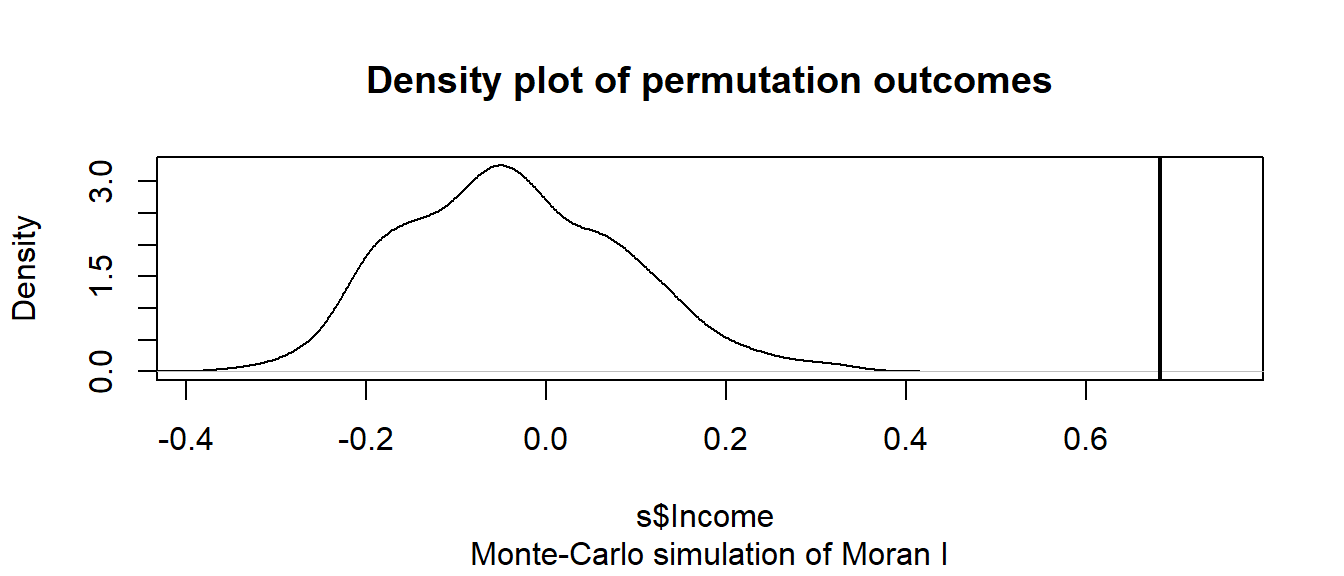
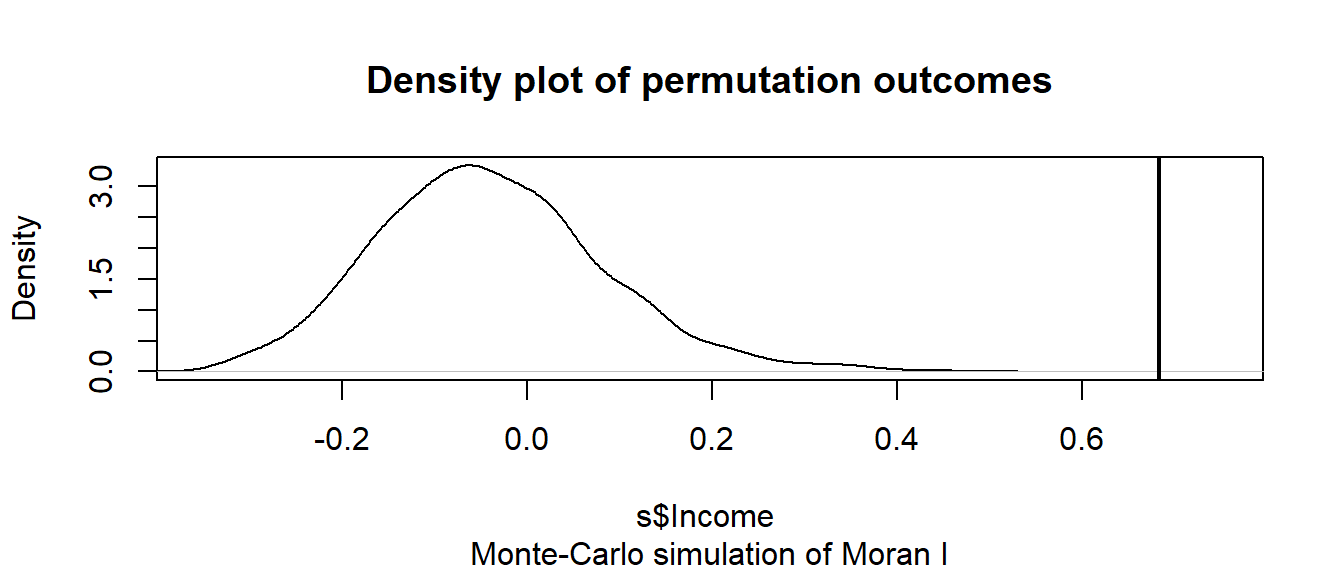
added zero policy parameter

diff --git a/docs/moranI/Mapping_and_Morans.html b/docs/moranI/Mapping_and_Morans.html
@@ -211,7 +211,7 @@ pre > code.sourceCode > span > a:first-child::before { text-decoration: underlin
 <hr>
 <p>We will make use of the following packages: <code>sf</code> for importing the shapefiles, <code>tmap</code> for creating choropleth maps and <code>spdep</code> for implementing the Moran’s I analysis. Note that you will probably need to install <code>spdep</code> since this package has not been used thus far in class.</p>
 <p>The functions in <code>spdep</code> use spatial formats that differ from those used with <code>spatstat</code>. As such, we will no longer need to rely on calls to <code>as.owin(s)</code> and <code>as.ppp(s)</code> as was the case with the <code>spatstat</code> functions.</p>
-<div class="cell" data-hash="Mapping_and_Morans_cache/html/unnamed-chunk-1_37585d4746d1afb7872c804a166c8c0d">
+<div class="cell" data-hash="Mapping_and_Morans_cache/html/unnamed-chunk-1_b2218aec5051ea25298dd6d3e7f3544e">
 <div class="sourceCode cell-code" id="cb1"><pre class="sourceCode r code-with-copy"><code class="sourceCode r"><span id="cb1-1"><a href="#cb1-1" aria-hidden="true" tabindex="-1"></a><span class="fu">library</span>(sf)</span>
 <span id="cb1-2"><a href="#cb1-2" aria-hidden="true" tabindex="-1"></a><span class="fu">library</span>(spdep)</span>
 <span id="cb1-3"><a href="#cb1-3" aria-hidden="true" tabindex="-1"></a><span class="fu">library</span>(RColorBrewer)</span></code><button title="Copy to Clipboard" class="code-copy-button"><i class="bi"></i></button></pre></div>
@@ -219,12 +219,12 @@ pre > code.sourceCode > span > a:first-child::before { text-decoration: underlin
 <section id="loading-the-data" class="level2">
 <h2 class="anchored" data-anchor-id="loading-the-data">Loading the data</h2>
 <p>Don’t forget to set the session’s working directory to the folder that contains the <code>NHME.shp</code> shapefile before running the following chunks of code.</p>
-<div class="cell" data-hash="Mapping_and_Morans_cache/html/unnamed-chunk-2_23e5027049d6c58ce0a4a7738b04c1b1">
+<div class="cell" data-hash="Mapping_and_Morans_cache/html/unnamed-chunk-2_b186acad8770b43477c219e3ba3b9e26">
 <div class="sourceCode cell-code" id="cb2"><pre class="sourceCode r code-with-copy"><code class="sourceCode r"><span id="cb2-1"><a href="#cb2-1" aria-hidden="true" tabindex="-1"></a>s <span class="ot">&lt;-</span> <span class="fu">st_read</span>(<span class="st">"NHME.shp"</span>)</span></code><button title="Copy to Clipboard" class="code-copy-button"><i class="bi"></i></button></pre></div>
 </div>
 <p>Note that unlike the earlier point pattern analysis exercises, we will need to <em>keep</em> the attribute information with our spatial objects.</p>
 <p>To list the column names associated with the object’s attribute table, type:</p>
-<div class="cell" data-hash="Mapping_and_Morans_cache/html/unnamed-chunk-3_0d822bff5e48d9ad68589492dd592d4c">
+<div class="cell" data-hash="Mapping_and_Morans_cache/html/unnamed-chunk-3_7c83929476e5452258beffced071deeb">
 <div class="sourceCode cell-code" id="cb3"><pre class="sourceCode r code-with-copy"><code class="sourceCode r"><span id="cb3-1"><a href="#cb3-1" aria-hidden="true" tabindex="-1"></a><span class="fu">names</span>(s)</span></code><button title="Copy to Clipboard" class="code-copy-button"><i class="bi"></i></button></pre></div>
 <div class="cell-output cell-output-stdout">
 <pre><code>[1] "NAME"       "STATE_NAME" "POP10_SQMI" "AVE_HH_SZ"  "AVE_FAM_SZ"
@@ -232,7 +232,7 @@ pre > code.sourceCode > span > a:first-child::before { text-decoration: underlin
 </div>
 </div>
 <p>To list the contents of an attribute, affix the dollar sign <code>$</code> to the object name followed by the attribute name. For example, to list the income values, type:</p>
-<div class="cell" data-hash="Mapping_and_Morans_cache/html/unnamed-chunk-4_03edfb803c9743b3aac4f8aa944a834f">
+<div class="cell" data-hash="Mapping_and_Morans_cache/html/unnamed-chunk-4_dcd27b7ec32474615a0dae64eac33eb0">
 <div class="sourceCode cell-code" id="cb5"><pre class="sourceCode r code-with-copy"><code class="sourceCode r"><span id="cb5-1"><a href="#cb5-1" aria-hidden="true" tabindex="-1"></a>s<span class="sc">$</span>Income</span></code><button title="Copy to Clipboard" class="code-copy-button"><i class="bi"></i></button></pre></div>
 <div class="cell-output cell-output-stdout">
 <pre><code> [1] 45765 59560 46559 50515 50027 40695 55046 43484 56701 60782 52393 56139
@@ -241,21 +241,21 @@ pre > code.sourceCode > span > a:first-child::before { text-decoration: underlin
 </div>
 </div>
 <p>You can plot the attribute values as follows:</p>
-<div class="cell" data-hash="Mapping_and_Morans_cache/html/unnamed-chunk-5_a5c90d75f982d6b1b561b4f561dedcc0">
+<div class="cell" data-hash="Mapping_and_Morans_cache/html/unnamed-chunk-5_a8bbfc8108149d79d7723b01ab66df58">
 <div class="sourceCode cell-code" id="cb7"><pre class="sourceCode r code-with-copy"><code class="sourceCode r"><span id="cb7-1"><a href="#cb7-1" aria-hidden="true" tabindex="-1"></a><span class="fu">hist</span>(s<span class="sc">$</span>Income, <span class="at">main=</span><span class="cn">NULL</span>)</span></code><button title="Copy to Clipboard" class="code-copy-button"><i class="bi"></i></button></pre></div>
 <div class="cell-output-display">
 <p><img src="Mapping_and_Morans_files/figure-html/unnamed-chunk-5-1.png" class="img-fluid" width="288"></p>
 </div>
 </div>
 <p>or,</p>
-<div class="cell" data-hash="Mapping_and_Morans_cache/html/unnamed-chunk-6_e251598c7615ee9bffa2c6f10ffd5e1e">
+<div class="cell" data-hash="Mapping_and_Morans_cache/html/unnamed-chunk-6_cae8248e586dca619e392460adf9cc86">
 <div class="sourceCode cell-code" id="cb8"><pre class="sourceCode r code-with-copy"><code class="sourceCode r"><span id="cb8-1"><a href="#cb8-1" aria-hidden="true" tabindex="-1"></a><span class="fu">boxplot</span>(s<span class="sc">$</span>Income, <span class="at">horizontal =</span> <span class="cn">TRUE</span>)</span></code><button title="Copy to Clipboard" class="code-copy-button"><i class="bi"></i></button></pre></div>
 <div class="cell-output-display">
 <p><img src="Mapping_and_Morans_files/figure-html/unnamed-chunk-6-1.png" class="img-fluid" width="288"></p>
 </div>
 </div>
 <p>To generate a map by symbolizing the polygons using the <code>Income</code> attribute we will define the classification breaks (<code>breaks = quantile</code> with <code>n = 8</code> breaks) and the symbol colors (<code>palette="Greens"</code>). For the latter, the <code>tmap</code> package makes use of Cynthia Brewer’s color schemes (you are already familiar with her <a href="http://colorbrewer2.org/">website</a>).</p>
-<div class="cell" data-hash="Mapping_and_Morans_cache/html/unnamed-chunk-7_a37e27f2432a6f978489c07deef320cf">
+<div class="cell" data-hash="Mapping_and_Morans_cache/html/unnamed-chunk-7_e707c9c3977d081f1d1c10547761f516">
 <div class="sourceCode cell-code" id="cb9"><pre class="sourceCode r code-with-copy"><code class="sourceCode r"><span id="cb9-1"><a href="#cb9-1" aria-hidden="true" tabindex="-1"></a>color <span class="ot">&lt;-</span> <span class="fu">brewer.pal</span>(<span class="dv">8</span>, <span class="st">"Greens"</span>)</span>
 <span id="cb9-2"><a href="#cb9-2" aria-hidden="true" tabindex="-1"></a><span class="fu">plot</span>(s[<span class="st">"Income"</span>], <span class="at">key.pos =</span> <span class="dv">4</span>, <span class="at">nbreaks =</span> <span class="dv">8</span>, <span class="at">breaks =</span> <span class="st">"quantile"</span>, <span class="at">pal =</span> color)</span></code><button title="Copy to Clipboard" class="code-copy-button"><i class="bi"></i></button></pre></div>
 <div class="cell-output-display">
@@ -264,7 +264,7 @@ pre > code.sourceCode > span > a:first-child::before { text-decoration: underlin
 </div>
 <p>You can change the classification schemes by setting the <code>breaks</code> parameter to styles such as <code>"equal"</code>, <code>"jenks"</code> (ArcGIS’ default), <code>"sd"</code>, <code>"pretty"</code> to name a few.</p>
 <p>You can change the Brewer color palette to any one of the following sequential color schemes:</p>
-<div class="cell" data-hash="Mapping_and_Morans_cache/html/unnamed-chunk-8_bbd7efa379f1593d7b917fd9459c7bb8">
+<div class="cell" data-hash="Mapping_and_Morans_cache/html/unnamed-chunk-8_a95626b01ae3fb3fbd7cdd1d93c18f98">
 <div class="sourceCode cell-code" id="cb10"><pre class="sourceCode r code-with-copy"><code class="sourceCode r"><span id="cb10-1"><a href="#cb10-1" aria-hidden="true" tabindex="-1"></a><span class="fu">display.brewer.all</span>(<span class="at">type =</span> <span class="st">"seq"</span>)</span></code><button title="Copy to Clipboard" class="code-copy-button"><i class="bi"></i></button></pre></div>
 <div class="cell-output-display">
 <p><img src="Mapping_and_Morans_files/figure-html/unnamed-chunk-8-1.png" class="img-fluid" width="672"></p>
@@ -277,11 +277,11 @@ pre > code.sourceCode > span > a:first-child::before { text-decoration: underlin
 <h3 class="anchored" data-anchor-id="step-1-define-neighboring-polygons">Step 1: Define neighboring polygons</h3>
 <p>The first step in a Moran’s I analysis requires that we define “neighboring” polygons. This could refer to contiguous polygons, polygons within a certain distance, or it could be non-spatial in nature and defined by social, political or cultural “neighbors”.</p>
 <p>Here, we’ll adopt a contiguous neighbor definition. We’ll accept any contiguous polygons that share at least one vertex; this is the “queen” case (if one chooses to adopt the chess analogy) and it’s parameterized as <code>queen = TRUE</code> in the call to <code>poly2nb</code>. If we required that just <em>edges</em> be shared between polygons then we would set <code>queen = FALSE</code> (the <em>rook</em> case).</p>
-<div class="cell" data-hash="Mapping_and_Morans_cache/html/unnamed-chunk-9_a6c4a2278aae0fb2bba6a60759161bb0">
+<div class="cell" data-hash="Mapping_and_Morans_cache/html/unnamed-chunk-9_54177a6cf6c5963a0e1239c5ebe68473">
 <div class="sourceCode cell-code" id="cb11"><pre class="sourceCode r divh3 code-with-copy"><code class="sourceCode r"><span id="cb11-1"><a href="#cb11-1" aria-hidden="true" tabindex="-1"></a>nb <span class="ot">&lt;-</span> <span class="fu">poly2nb</span>(s, <span class="at">queen=</span><span class="cn">TRUE</span>)</span></code><button title="Copy to Clipboard" class="code-copy-button"><i class="bi"></i></button></pre></div>
 </div>
 <p>For each polygon in our shape object, <code>nb</code> lists all neighboring polygons. For example, to see the neighbors (by ID number) for the first polygon in the shape object, type:</p>
-<div class="cell" data-hash="Mapping_and_Morans_cache/html/unnamed-chunk-10_abe4c02252949de6e7562f5dcea44187">
+<div class="cell" data-hash="Mapping_and_Morans_cache/html/unnamed-chunk-10_46333df1535113deef0445d08167425e">
 <div class="sourceCode cell-code" id="cb12"><pre class="sourceCode r divh3 code-with-copy"><code class="sourceCode r"><span id="cb12-1"><a href="#cb12-1" aria-hidden="true" tabindex="-1"></a>nb[<span class="dv">1</span>]</span></code><button title="Copy to Clipboard" class="code-copy-button"><i class="bi"></i></button></pre></div>
 <div class="cell-output cell-output-stdout">
 <pre class="divh3"><code>[[1]]
@@ -289,7 +289,7 @@ pre > code.sourceCode > span > a:first-child::before { text-decoration: underlin
 </div>
 </div>
 <p>Here’s the list of county names and associated IDs:</p>
-<div class="cell" data-hash="Mapping_and_Morans_cache/html/unnamed-chunk-11_58acafd1b538dee7d5d247402e1d6f5c">
+<div class="cell" data-hash="Mapping_and_Morans_cache/html/unnamed-chunk-11_a28f46a5e409253e1293b7c315fe4175">
 <div class="cell-output-display">
 <div style="border: 1px solid #ddd; padding: 0px; overflow-y: scroll; height:200px; overflow-x: scroll; width:200px; ">
 <table class="divh3 table table-sm table-striped small" data-quarto-postprocess="true">
@@ -414,11 +414,11 @@ pre > code.sourceCode > span > a:first-child::before { text-decoration: underlin
 <section id="step-2-assign-weights-to-the-neighbors" class="level3">
 <h3 class="anchored" data-anchor-id="step-2-assign-weights-to-the-neighbors">Step 2: Assign weights to the neighbors</h3>
 <p>Next, we need to assign weights to each neighboring polygon. In this example, each neighboring polygon will be assigned <strong>equal weight</strong> when computing the neighboring mean income values.</p>
-<div class="cell" data-hash="Mapping_and_Morans_cache/html/unnamed-chunk-12_668913c0252c3aa4987a804c94d078ee">
+<div class="cell" data-hash="Mapping_and_Morans_cache/html/unnamed-chunk-12_78a19e59a6b19758a2e5ef88f9b0ad32">
 <div class="sourceCode cell-code" id="cb14"><pre class="sourceCode r divh3 code-with-copy"><code class="sourceCode r"><span id="cb14-1"><a href="#cb14-1" aria-hidden="true" tabindex="-1"></a>lw <span class="ot">&lt;-</span> <span class="fu">nb2listw</span>(nb, <span class="at">style=</span><span class="st">"W"</span>, <span class="at">zero.policy=</span><span class="cn">TRUE</span>)</span></code><button title="Copy to Clipboard" class="code-copy-button"><i class="bi"></i></button></pre></div>
 </div>
 <p>To see the weight of the first polygon’s neighbors type:</p>
-<div class="cell" data-hash="Mapping_and_Morans_cache/html/unnamed-chunk-13_dc1722b1583761cb7a4ab33b9c3aa7a1">
+<div class="cell" data-hash="Mapping_and_Morans_cache/html/unnamed-chunk-13_6944e7c42bbb7ce24ff1d47e3c585fa4">
 <div class="sourceCode cell-code" id="cb15"><pre class="sourceCode r divh3 code-with-copy"><code class="sourceCode r"><span id="cb15-1"><a href="#cb15-1" aria-hidden="true" tabindex="-1"></a>lw<span class="sc">$</span>weights[<span class="dv">1</span>]</span></code><button title="Copy to Clipboard" class="code-copy-button"><i class="bi"></i></button></pre></div>
 <div class="cell-output cell-output-stdout">
 <pre class="divh3"><code>[[1]]
@@ -431,7 +431,7 @@ pre > code.sourceCode > span > a:first-child::before { text-decoration: underlin
 <h3 class="anchored" data-anchor-id="step-3-compute-the-weighted-neighbor-mean-income-values-optional-step">Step 3: Compute the (weighted) neighbor mean income values (optional step)</h3>
 <p>NOTE: This step does not need to be performed when running the <code>moran</code> or <code>moran.test</code> functions outlined in Steps 4 and 5. This step is only needed if you wish to generate a scatter plot between the income values and their lagged counterpart.</p>
 <p>Next, we’ll have R compute the average neighbor income value for each polygon. These values are often referred to as <strong>spatially lagged</strong> values.</p>
-<div class="cell" data-hash="Mapping_and_Morans_cache/html/unnamed-chunk-14_304105618fec03af2a1cfc12a66e90f7">
+<div class="cell" data-hash="Mapping_and_Morans_cache/html/unnamed-chunk-14_d6b5ed66ab19bed6f312fca2b9879d46">
 <div class="sourceCode cell-code" id="cb17"><pre class="sourceCode r divh3 code-with-copy"><code class="sourceCode r"><span id="cb17-1"><a href="#cb17-1" aria-hidden="true" tabindex="-1"></a>inc.lag <span class="ot">&lt;-</span> <span class="fu">lag.listw</span>(lw, s<span class="sc">$</span>Income)</span>
 <span id="cb17-2"><a href="#cb17-2" aria-hidden="true" tabindex="-1"></a>inc.lag</span></code><button title="Copy to Clipboard" class="code-copy-button"><i class="bi"></i></button></pre></div>
 <div class="cell-output cell-output-stdout">
@@ -442,7 +442,7 @@ pre > code.sourceCode > span > a:first-child::before { text-decoration: underlin
 </div>
 </div>
 <p>You can plot the relationship between income and its spatially lagged counterpart as follows (note that the blue line added to the plot is derived from a regression model).</p>
-<div class="cell" data-hash="Mapping_and_Morans_cache/html/unnamed-chunk-15_390e7b2894486a6374a3b1a7b7ad8b62">
+<div class="cell" data-hash="Mapping_and_Morans_cache/html/unnamed-chunk-15_72a4ad8774f7dea2b8b5e21ff46441f5">
 <div class="sourceCode cell-code" id="cb19"><pre class="sourceCode r divh3 code-with-copy"><code class="sourceCode r"><span id="cb19-1"><a href="#cb19-1" aria-hidden="true" tabindex="-1"></a><span class="fu">plot</span>(inc.lag <span class="sc">~</span> s<span class="sc">$</span>Income, <span class="at">pch=</span><span class="dv">16</span>, <span class="at">asp=</span><span class="dv">1</span>)</span>
 <span id="cb19-2"><a href="#cb19-2" aria-hidden="true" tabindex="-1"></a><span class="fu">abline</span>(<span class="fu">lm</span>(inc.lag <span class="sc">~</span> s<span class="sc">$</span>Income), <span class="at">col=</span><span class="st">"blue"</span>)</span></code><button title="Copy to Clipboard" class="code-copy-button"><i class="bi"></i></button></pre></div>
 <div class="cell-output-display">
@@ -453,7 +453,7 @@ pre > code.sourceCode > span > a:first-child::before { text-decoration: underlin
 <section id="step-4-computing-the-morans-i-statistic" class="level3">
 <h3 class="anchored" data-anchor-id="step-4-computing-the-morans-i-statistic">Step 4: Computing the Moran’s I statistic</h3>
 <p>The Moran’s I statistic can be computed using the <code>moran</code> function.</p>
-<div class="cell" data-hash="Mapping_and_Morans_cache/html/unnamed-chunk-16_68d36f62106422d4911107037c68e69b">
+<div class="cell" data-hash="Mapping_and_Morans_cache/html/unnamed-chunk-16_7326570adebe02c472a1c49e80358d7d">
 <div class="sourceCode cell-code" id="cb20"><pre class="sourceCode r divh3 code-with-copy"><code class="sourceCode r"><span id="cb20-1"><a href="#cb20-1" aria-hidden="true" tabindex="-1"></a>I <span class="ot">&lt;-</span> <span class="fu">moran</span>(s<span class="sc">$</span>Income, lw, <span class="fu">length</span>(nb), <span class="fu">Szero</span>(lw))[<span class="dv">1</span>]</span>
 <span id="cb20-2"><a href="#cb20-2" aria-hidden="true" tabindex="-1"></a>I</span></code><button title="Copy to Clipboard" class="code-copy-button"><i class="bi"></i></button></pre></div>
 <div class="cell-output cell-output-stdout">
@@ -469,8 +469,8 @@ pre > code.sourceCode > span > a:first-child::before { text-decoration: underlin
 <section id="analytical-method" class="level4">
 <h4 class="anchored" data-anchor-id="analytical-method">Analytical method</h4>
 <p>To run the Moran’s I analysis using the analytical method, use the <code>moran.test</code> function.</p>
-<div class="cell" data-hash="Mapping_and_Morans_cache/html/unnamed-chunk-17_3cefc1385d64013332d471fa2366612f">
-<div class="sourceCode cell-code" id="cb22"><pre class="sourceCode r divh3 code-with-copy"><code class="sourceCode r"><span id="cb22-1"><a href="#cb22-1" aria-hidden="true" tabindex="-1"></a><span class="fu">moran.test</span>(s<span class="sc">$</span>Income,lw, <span class="at">alternative=</span><span class="st">"greater"</span>)</span></code><button title="Copy to Clipboard" class="code-copy-button"><i class="bi"></i></button></pre></div>
+<div class="cell" data-hash="Mapping_and_Morans_cache/html/unnamed-chunk-17_89fe893b7df75ee30cfc9bce2e27c453">
+<div class="sourceCode cell-code" id="cb22"><pre class="sourceCode r divh3 code-with-copy"><code class="sourceCode r"><span id="cb22-1"><a href="#cb22-1" aria-hidden="true" tabindex="-1"></a><span class="fu">moran.test</span>(s<span class="sc">$</span>Income,lw, <span class="at">alternative=</span><span class="st">"greater"</span>, <span class="at">zero.policy=</span><span class="cn">TRUE</span>)</span></code><button title="Copy to Clipboard" class="code-copy-button"><i class="bi"></i></button></pre></div>
 <div class="cell-output cell-output-stdout">
 <pre class="divh3"><code>
     Moran I test under randomisation
@@ -492,8 +492,8 @@ Moran I statistic       Expectation          Variance
 <h4 class="anchored" data-anchor-id="monte-carlo-method">Monte Carlo method</h4>
 <p>The analytical approach to the Moran’s I analysis benefits from being fast. But it may be sensitive to irregularly distributed polygons. A safer approach to hypothesis testing is to run an MC simulation using the <code>moran.mc</code> function. The number of simulations is defined by the <code>nsim =</code> parameter. Here, we’ll permute income values <code>999</code> times.</p>
 <p>The <code>moran.mc</code> function takes another parameter called <code>alternative =</code>. This parameter has three possible values: <code>"greater"</code> (the default), <code>"less"</code>, and <code>"two.sided"</code>. The choice will be dictated by the side of the distribution we want to compute the p-value for. If our observed Moran’s I is to the right of the expected distribution, we will want to adopt the <code>"greater"</code> option which will focus on the upper tail of the distribution. If our observed value is to the left of the distribution, we will want to choose the <code>"less"</code> option to focus on the lower tail of the distribution. You can usually tell from the computed Moran’s I value which tail you will want to emphasize by its sign. A general rule of thumb is to place emphasis on the lower tail if Moran’s I value is negative, and to place emphasis on the upper tail if Moran’s I value is positive. In our example, out Moran’s I value of 0.68 is positive so we’ll choose <code>"greater"</code> for the parameter.</p>
-<div class="cell" data-hash="Mapping_and_Morans_cache/html/unnamed-chunk-18_df2441e789c7199d35a3aab8acc0d95d">
-<div class="sourceCode cell-code" id="cb24"><pre class="sourceCode r divh3 code-with-copy"><code class="sourceCode r"><span id="cb24-1"><a href="#cb24-1" aria-hidden="true" tabindex="-1"></a>MC<span class="ot">&lt;-</span> <span class="fu">moran.mc</span>(s<span class="sc">$</span>Income, lw, <span class="at">nsim =</span> <span class="dv">999</span>, <span class="at">alternative =</span> <span class="st">"greater"</span>)</span>
+<div class="cell" data-hash="Mapping_and_Morans_cache/html/unnamed-chunk-18_ab57cd122ebbd46faf8136964c3b6383">
+<div class="sourceCode cell-code" id="cb24"><pre class="sourceCode r divh3 code-with-copy"><code class="sourceCode r"><span id="cb24-1"><a href="#cb24-1" aria-hidden="true" tabindex="-1"></a>MC<span class="ot">&lt;-</span> <span class="fu">moran.mc</span>(s<span class="sc">$</span>Income, lw, <span class="at">nsim =</span> <span class="dv">999</span>, <span class="at">alternative =</span> <span class="st">"greater"</span>, <span class="at">zero.policy=</span><span class="cn">TRUE</span>)</span>
 <span id="cb24-2"><a href="#cb24-2" aria-hidden="true" tabindex="-1"></a></span>
 <span id="cb24-3"><a href="#cb24-3" aria-hidden="true" tabindex="-1"></a><span class="co"># View results (including p-value)</span></span>
 <span id="cb24-4"><a href="#cb24-4" aria-hidden="true" tabindex="-1"></a>MC</span></code><button title="Copy to Clipboard" class="code-copy-button"><i class="bi"></i></button></pre></div>
@@ -510,7 +510,7 @@ alternative hypothesis: greater</code></pre>
 </div>
 </div>
 <p>The MC simulation generates a very small p-value, 0.001. This is not surprising given that the income values are strongly clustered. We can see the results graphically by passing the Moran’s I model to the plot function:</p>
-<div class="cell" data-hash="Mapping_and_Morans_cache/html/unnamed-chunk-19_3f1d648f9cb13321b37ed8e98ee85975">
+<div class="cell" data-hash="Mapping_and_Morans_cache/html/unnamed-chunk-19_6d98797eb84b452b05440e917df9e0e9">
 <div class="sourceCode cell-code" id="cb26"><pre class="sourceCode r divh3 code-with-copy"><code class="sourceCode r"><span id="cb26-1"><a href="#cb26-1" aria-hidden="true" tabindex="-1"></a><span class="co"># Plot the Null distribution (note that this is a density plot instead of a histogram)</span></span>
 <span id="cb26-2"><a href="#cb26-2" aria-hidden="true" tabindex="-1"></a><span class="fu">plot</span>(MC)</span></code><button title="Copy to Clipboard" class="code-copy-button"><i class="bi"></i></button></pre></div>
 <div class="cell-output-display">
@@ -519,7 +519,7 @@ alternative hypothesis: greater</code></pre>
 </div>
 <p>The curve shows the distribution of Moran I values we could expect had the incomes been randomly distributed across the counties. Note that our observed statistic, 0.683, falls way to the right of the distribution suggesting that the income values are clustered (a positive Moran’s I value suggests clustering whereas a negative Moran’s I value suggests dispersion).</p>
 <p>Can you tell the difference between our observed income distribution and those generated from a completely random process in the following figure?</p>
-<div class="cell" data-hash="Mapping_and_Morans_cache/html/unnamed-chunk-20_95d8a8735032c2f03ac19a841181a7e8">
+<div class="cell" data-hash="Mapping_and_Morans_cache/html/unnamed-chunk-20_e108e8334c4ad46ec8f957e5bcd3646e">
 <div class="cell-output-display">
 <p><img src="Mapping_and_Morans_files/figure-html/unnamed-chunk-20-1.png" class="img-fluid" width="672"></p>
 </div>
@@ -531,13 +531,13 @@ alternative hypothesis: greater</code></pre>
 <section id="another-example-florida-1980-homicide-rate-example" class="level2">
 <h2 class="anchored" data-anchor-id="another-example-florida-1980-homicide-rate-example">Another example: Florida 1980 Homicide rate example</h2>
 <p>In this example, we explore the spatial distribution of 1980 homicide rates <code>HR80</code> by county for the state of Florida using the Monte Carlo approach. The data are found in the <code>NAT/</code> folder used in the in-class exercise.</p>
-<div class="cell" data-hash="Mapping_and_Morans_cache/html/unnamed-chunk-21_3b2de72b5e2df4d26cfae0131ac1a4ae">
+<div class="cell" data-hash="Mapping_and_Morans_cache/html/unnamed-chunk-21_0320765429b3e0d5a1888f165993f149">
 <div class="cell-output-display">
 <p><img src="Mapping_and_Morans_files/figure-html/unnamed-chunk-21-1.png" class="img-fluid" width="672"></p>
 </div>
 </div>
 <p>The following code chunk highlights the entire workflow (don’t forget to set your R session folder to that which houses the <code>FL.shp</code> file).</p>
-<div class="cell" data-hash="Mapping_and_Morans_cache/html/unnamed-chunk-22_e4a4f7d49944ef57ef73234bcbd59c09">
+<div class="cell" data-hash="Mapping_and_Morans_cache/html/unnamed-chunk-22_966b2b22c1a9c9c6b517c1492fc2af18">
 <div class="sourceCode cell-code" id="cb27"><pre class="sourceCode r code-with-copy"><code class="sourceCode r"><span id="cb27-1"><a href="#cb27-1" aria-hidden="true" tabindex="-1"></a><span class="co"># Load the shapefile</span></span>
 <span id="cb27-2"><a href="#cb27-2" aria-hidden="true" tabindex="-1"></a>s <span class="ot">&lt;-</span> <span class="fu">st_read</span>(<span class="st">"FL.shp"</span>)</span>
 <span id="cb27-3"><a href="#cb27-3" aria-hidden="true" tabindex="-1"></a></span>
@@ -548,7 +548,7 @@ alternative hypothesis: greater</code></pre>
 <span id="cb27-8"><a href="#cb27-8" aria-hidden="true" tabindex="-1"></a>lw <span class="ot">&lt;-</span> <span class="fu">nb2listw</span>(nb, <span class="at">style=</span><span class="st">"W"</span>, <span class="at">zero.policy=</span><span class="cn">TRUE</span>)</span>
 <span id="cb27-9"><a href="#cb27-9" aria-hidden="true" tabindex="-1"></a></span>
 <span id="cb27-10"><a href="#cb27-10" aria-hidden="true" tabindex="-1"></a><span class="co"># Run the MC simulation version of the Moran's I test</span></span>
-<span id="cb27-11"><a href="#cb27-11" aria-hidden="true" tabindex="-1"></a>M1 <span class="ot">&lt;-</span> <span class="fu">moran.mc</span>(s<span class="sc">$</span>HR80, lw, <span class="at">nsim=</span><span class="dv">9999</span>, <span class="at">alternative =</span> <span class="st">"greater"</span>)</span>
+<span id="cb27-11"><a href="#cb27-11" aria-hidden="true" tabindex="-1"></a>M1 <span class="ot">&lt;-</span> <span class="fu">moran.mc</span>(s<span class="sc">$</span>HR80, lw, <span class="at">nsim=</span><span class="dv">9999</span>, <span class="at">alternative =</span> <span class="st">"greater"</span>, <span class="at">zero.policy=</span><span class="cn">TRUE</span>)</span>
 <span id="cb27-12"><a href="#cb27-12" aria-hidden="true" tabindex="-1"></a></span>
 <span id="cb27-13"><a href="#cb27-13" aria-hidden="true" tabindex="-1"></a><span class="co"># Plot the results</span></span>
 <span id="cb27-14"><a href="#cb27-14" aria-hidden="true" tabindex="-1"></a><span class="fu">plot</span>(M1)</span>
@@ -559,7 +559,7 @@ alternative hypothesis: greater</code></pre>
 <p><img src="Mapping_and_Morans_files/figure-html/unnamed-chunk-22-1.png" class="img-fluid" width="672"></p>
 </div>
 </div>
-<div class="cell" data-hash="Mapping_and_Morans_cache/html/unnamed-chunk-23_afda736b61afed0bb7ace2f1b5fde550">
+<div class="cell" data-hash="Mapping_and_Morans_cache/html/unnamed-chunk-23_198bac06adf54e62979429be5fa64df5">
 <div class="cell-output cell-output-stdout">
 <pre><code>
     Monte-Carlo simulation of Moran I
@@ -573,7 +573,7 @@ alternative hypothesis: greater</code></pre>
 </div>
 </div>
 <p>The MC simulation generated a p-value of ~0.04 suggesting that there would be a ~4% chance of being wrong in rejecting the null hypothesis or that there is a ~4% chance that our observed pattern is consistent with a random process (note that your simulated p-value may differ from the one shown here–the number of simulations may need to be increased to reach a more stable convergence). Recall that this is a one-sided test. ArcGIS’s analytical solution adopts a two-sided test. To compare its p-value to ours, we need to divide its p-value by 2 (i.e.&nbsp;<code>0.0588 / 2</code>) which gives us a one-sided p-value of <code>0.0294</code>–about 25% smaller than our simulated p-value.</p>
-<div class="cell" data-hash="Mapping_and_Morans_cache/html/unnamed-chunk-24_23a0587c4a78da97ee4677ff82d1fc24">
+<div class="cell" data-hash="Mapping_and_Morans_cache/html/unnamed-chunk-24_9b81eff28da42e9e43d2b901e7f4167e">
 <div class="cell-output-display">
 <p><img src="Mapping_and_Morans_files/figure-html/unnamed-chunk-24-1.png" class="img-fluid" width="480"></p>
 </div>
